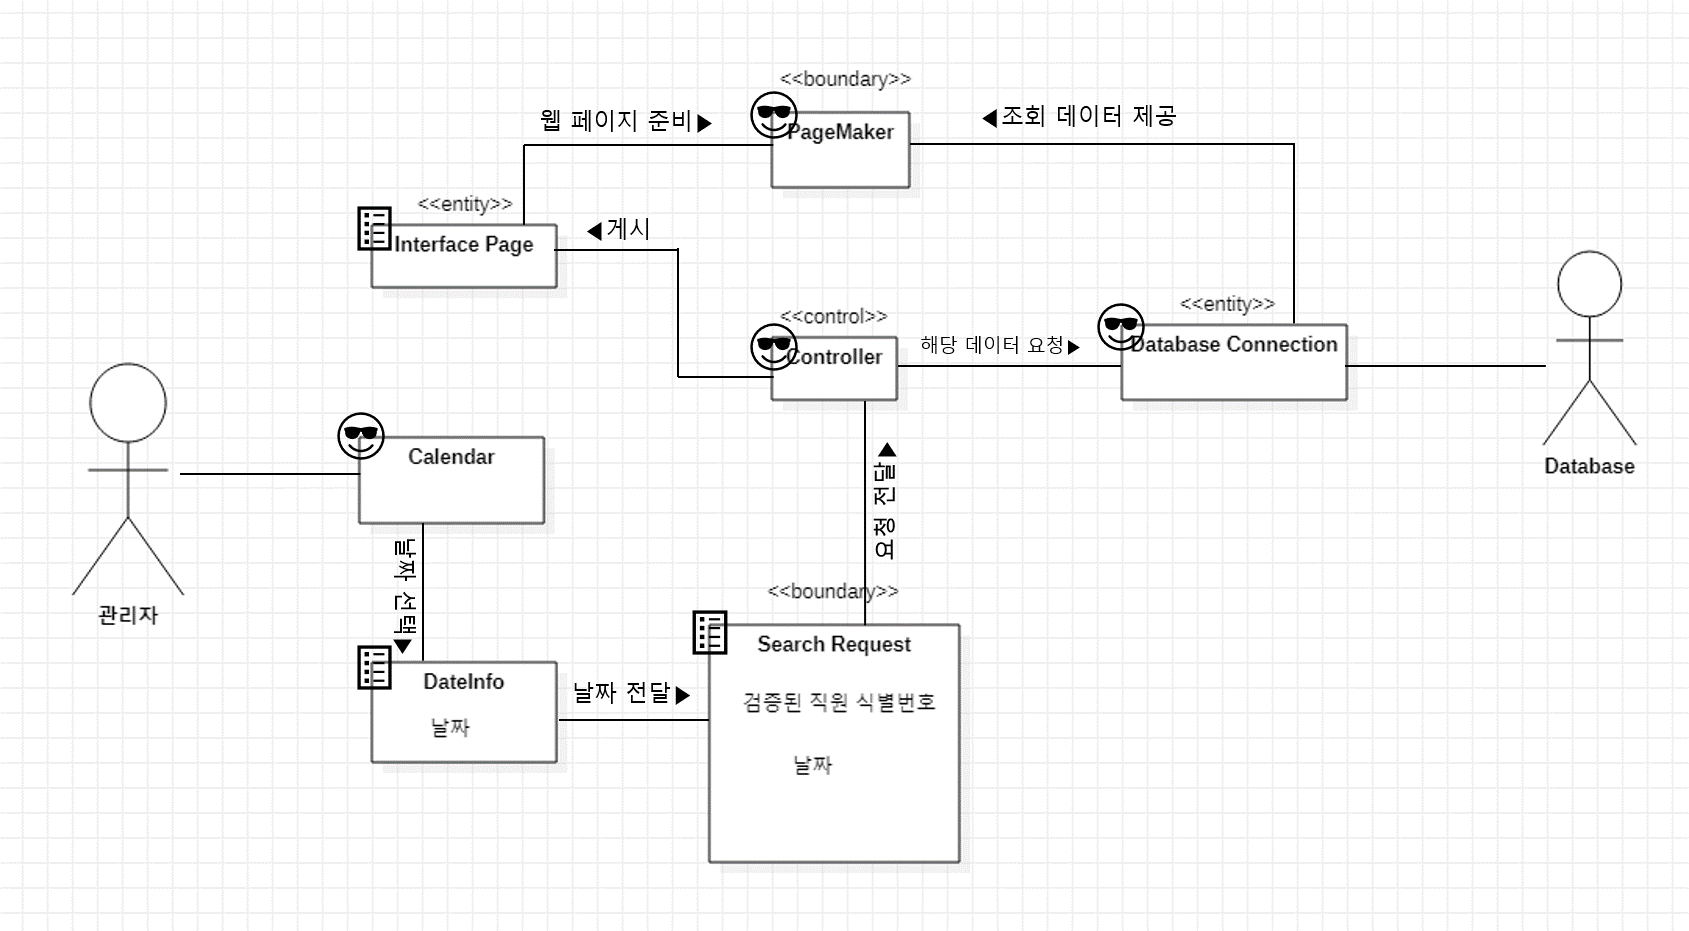
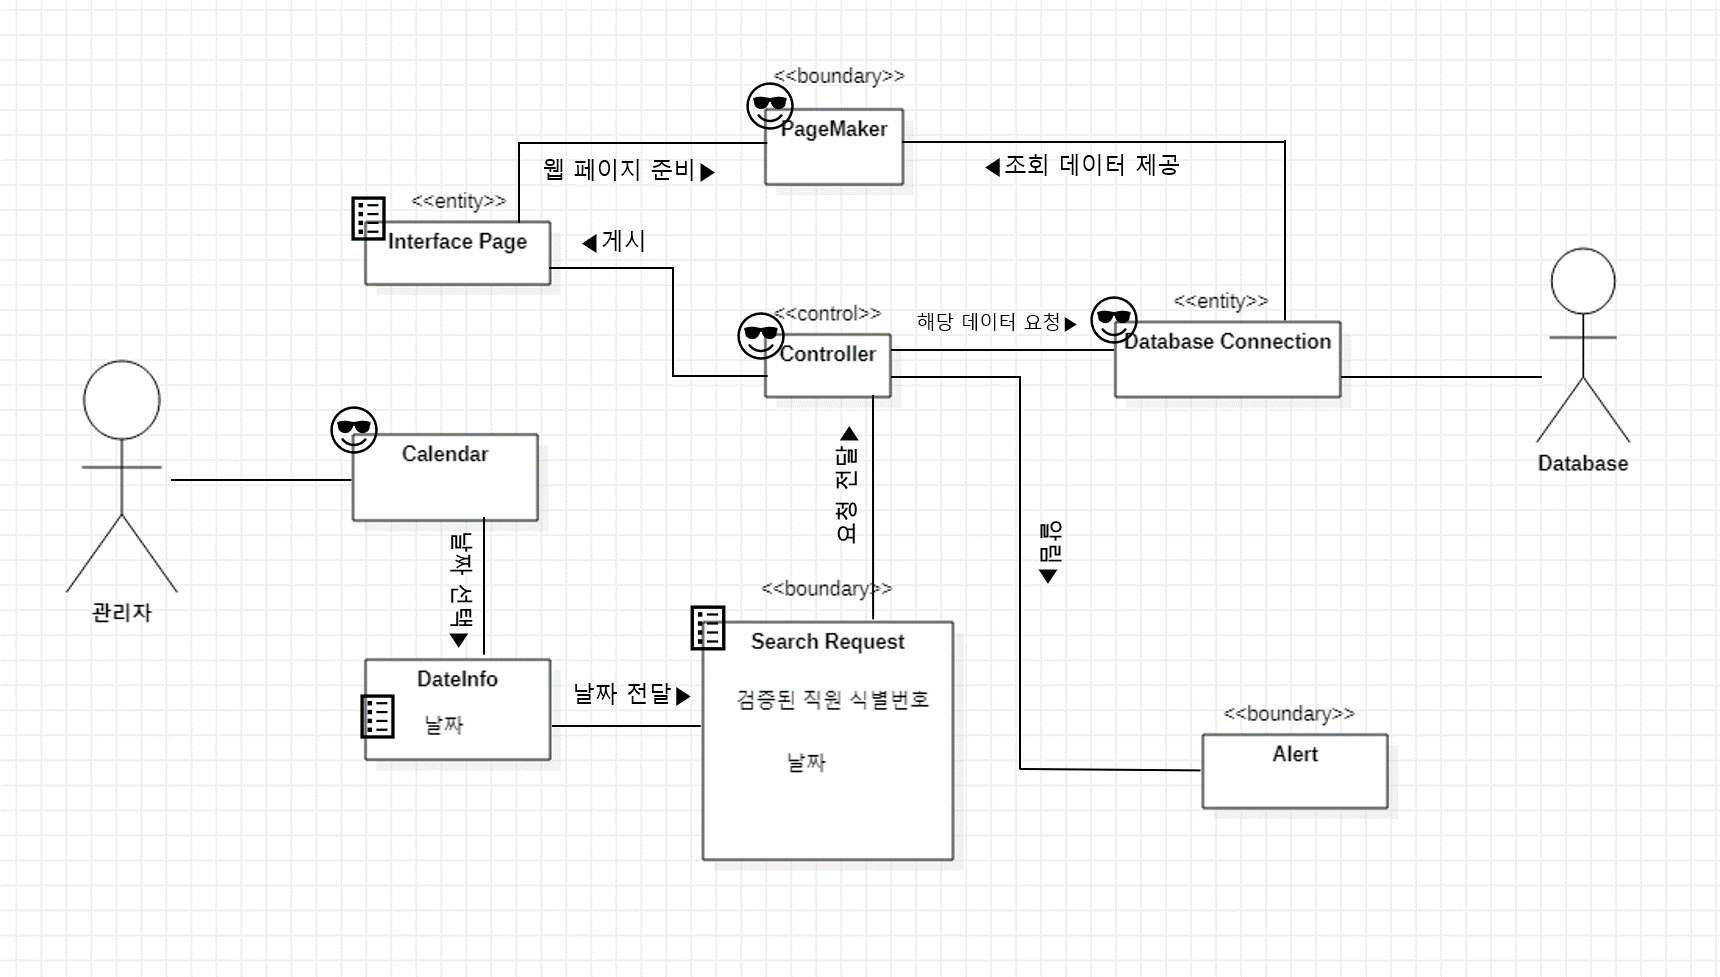
210506
UC2에 Alert 추가와 도메인 모델 수정, Sequence diagram 초안 작성

diff --git a/Commuting_and_Working_InformationCheck/DomainModel.md b/Commuting_and_Working_InformationCheck/DomainModel.md
@@ -55,6 +55,7 @@
 | 입력값에 해당하는 정보를 추출한다.                                          | D    | Database Connection |
 | 웹 페이지 상에서 정보들이 어떻게 배치되어야 하는 지 나타내는 HTML 문서이다. | K    | Interface Page      |
 | HTML 문서를 가져와 웹 상에 보여준다.                                        | D    | PageMaker           |
+|선택한 날짜에 데이터가 존재하지 않으면 경고창을 띄운다.|D|Alert
 
 <br><br> 2. Extracting the Associations<br><br>
 | Concept pair | Association description | Association name |
@@ -62,10 +63,11 @@
 | Calendar < - > DateInfo | 날짜를 선택하여 전달한다. | 날짜 선택 |
 | DateInfo < - > Search Request | 선택한 날짜를 조회 요청에 포함시킨다. | 날짜 전달 |
 | Controller < - > Search Request | 요청된 요구를 받아들이고 보낸다. | 요청 전달 |
-| Controller < - > Database Connection | 직원 식별번호 별로 저장되어 있는 데이터에서 관리자가 입력한 직원의 식별번호에 해당하는 정보를 가져온다. | 해당 데이터 요청 |
+| Controller < - > Database Connection | 직원 식별번호 별로 저장되어 있는 데이터에서 관리자가 입력한 직원의 식별번호에 해당하는 정보가 있다면 가져오고 없으면 신호를 보낸다. | 해당 데이터 요청 |
 | PageMaker < - > Interface Page | HTML 문서에 맞게 웹 페이지 화면을 구성한다. | 웹 페이지 준비 |
 | Database Connection < - > Page Maker | 웹 페이지 상에 올릴 데이터들을 제공한다. | 조회 데이터 제공 |
 | Controller <- > Interface Page | 웹 페이지를 게시하도록 신호를 보낸다. | 게시 |
+|Controller <-> Alert| 조회하고자 하는 날짜에 데이터가 없으면 경고창을 띄운다.| 알림
 
 <br><br> 3. Extracting the Attributes<br><br>
 | Concept | Attributes | Attribute Description |
@@ -82,10 +84,10 @@
 | UC1      | 7  | X           | X        | X           | X              | X                   | X              | X            | X             |
 | UC2      | 12 | X           |          |             |                |                     |                |              |               |
 
-|     Use Case     |  PW  |   DateInfo  | Calendar | ControllerUC2 | Search Request | Database Connection | Interface Page |   PageMaker  |
-|:--------:|:--:|:-----------:|:--------:|:-----------:|:--------------:|:-------------------:|:--------------:|:------------:|
-| UC1      | 7  |             |          |             |                |                     |                |              |
-| UC2      | 12 | X           | X        | X           | X              | X                   | X              | X            |
+|     Use Case     |  PW  |   DateInfo  | Calendar | ControllerUC2 | Search Request | Database Connection | Interface Page |   PageMaker  |Alert|
+|:--------:|:--:|:-----------:|:--------:|:-----------:|:--------------:|:-------------------:|:--------------:|:------------:|:----:|
+| UC1      | 7  |             |          |             |                |                     |                |              | |
+| UC2      | 12 | X           | X        | X           | X              | X                   | X              | X            | X |
 
 <br><br>
 ## Contracts
@@ -98,4 +100,4 @@
 | Operation | 직원별 기록 (GPS, 출퇴근 사진) |
 |:---------:|:------------------------------:|
 | Preconditions       | None                              |
-| Postconditions       | UC1을 통해 입력한 직원 식별번호가 유효한지 검증하고, <br>그렇다면 선택한 날짜의 출퇴근 기록(사진, 위치)을 보여준다.                              |
+| Postconditions       | UC1을 통해 입력한 직원 식별번호가 유효한지 검증하고, <br>선택한 날짜의 출퇴근 기록(사진, 위치)가 있다면 보여준다.
